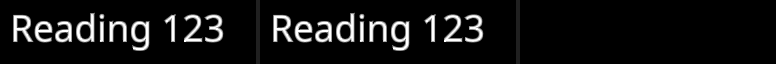
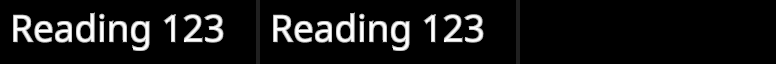
fix(msdf): create legacy MSDF atlases linear (B17)
The atlas Texture2D defaulted to sRGB, so in Linear colour space the GPU
gamma-decoded the RGB distance data and legacy MSDF text rendered as grey
blocks. Found once the test host ran in Linear: Msdf_PixelEquivalent fails
without the fix. Also give AppearanceStyleShimTests a colour tolerance (Linear
Set/GetColor drifts by ULPs) and refresh the pixel-equivalence evidence.

diff --git a/Tests/Editor/AppearanceStyleShimTests.cs b/Tests/Editor/AppearanceStyleShimTests.cs
@@ -47,10 +47,12 @@ namespace LightSide.Tests
 
             var s = AppearanceStyleShim.StyleFromMaterials(new[] { _m });
 
+            // Tolerance, not exact Color equality: in Linear colour space Material.Set/GetColor round
+            // trips through a gamma conversion and drifts by a few ULPs.
             if (_m.HasProperty("_FaceColor"))
-                Assert.AreEqual(new Color(0.2f, 0.4f, 0.6f, 1f), s.faceColor, "face colour mapped");
+                AssertColor(new Color(0.2f, 0.4f, 0.6f, 1f), s.faceColor, "face colour mapped");
             if (_m.HasProperty("_OutlineColor"))
-                Assert.AreEqual(new Color(1f, 0f, 0f, 1f), s.outlineColor, "outline colour mapped");
+                AssertColor(new Color(1f, 0f, 0f, 1f), s.outlineColor, "outline colour mapped");
             if (_m.HasProperty("_OutlineWidth"))
                 Assert.AreEqual(0.25f, s.outlineWidth, 1e-5f, "outline width mapped");
             if (_m.HasProperty("_FaceDilate"))
@@ -76,6 +78,14 @@ namespace LightSide.Tests
                     Assert.AreEqual(Color.green, s.outlineColor, "outline colour comes from the 1st (outline) material");
             }
             finally { Object.DestroyImmediate(outlineMat); Object.DestroyImmediate(faceMat); }
+        }
+
+        private static void AssertColor(Color expected, Color actual, string message)
+        {
+            Assert.AreEqual(expected.r, actual.r, 1e-4f, message + " (r)");
+            Assert.AreEqual(expected.g, actual.g, 1e-4f, message + " (g)");
+            Assert.AreEqual(expected.b, actual.b, 1e-4f, message + " (b)");
+            Assert.AreEqual(expected.a, actual.a, 1e-4f, message + " (a)");
         }
     }
 }

diff --git a/Runtime/FontCore/UniTextFont.cs b/Runtime/FontCore/UniTextFont.cs
@@ -1642,7 +1642,10 @@ namespace LightSide
             if (IsCoverageBitmapMode)
                 texFormat = TextureFormat.Alpha8;
 
-            var texture = new Texture2D(atlasSize, atlasSize, texFormat, false);
+            // MSDF stores distance DATA in RGB: it must be linear, or in Linear colour space the GPU
+            // sRGB-decodes it and the median lands far from 0.5 (glyphs render as grey blocks).
+            // Colour glyphs (emoji) stay sRGB; Alpha8 is unaffected by the flag.
+            var texture = new Texture2D(atlasSize, atlasSize, texFormat, false, linear: mode == UniTextRenderMode.Msdf);
 
             // Filtering: Mono and pixel-perfect require Point (no bilinear blur, crisp integer scale);
             // Smooth (AA coverage) uses the default Bilinear so its gradients interpolate smoothly.
